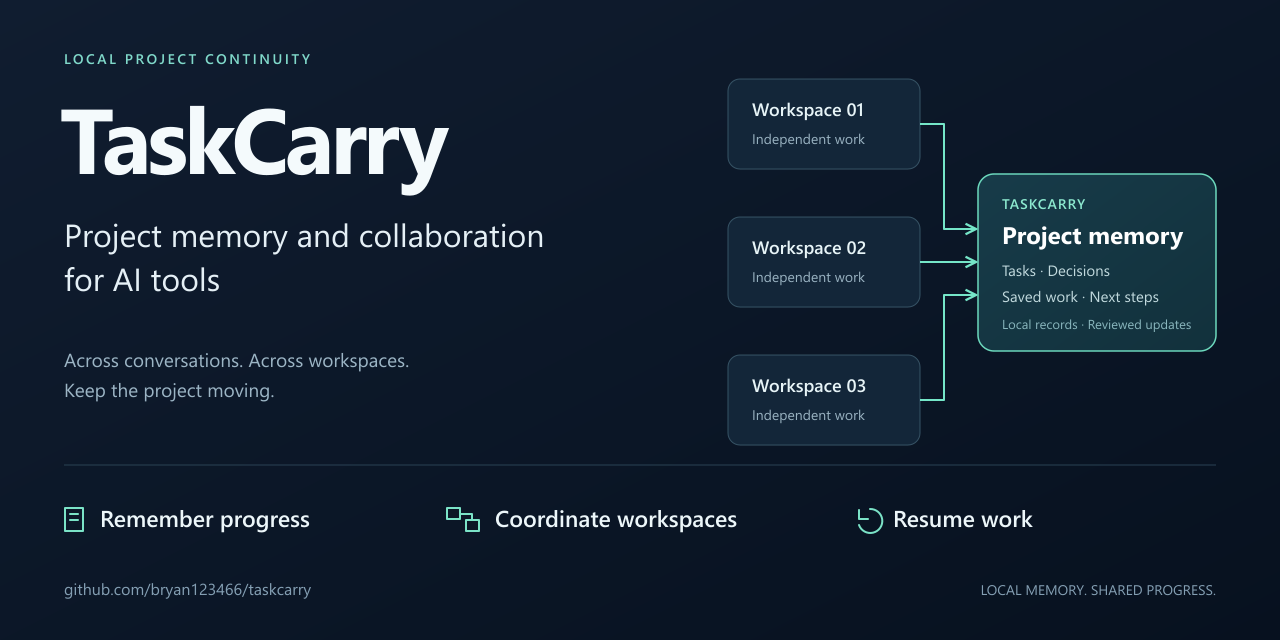
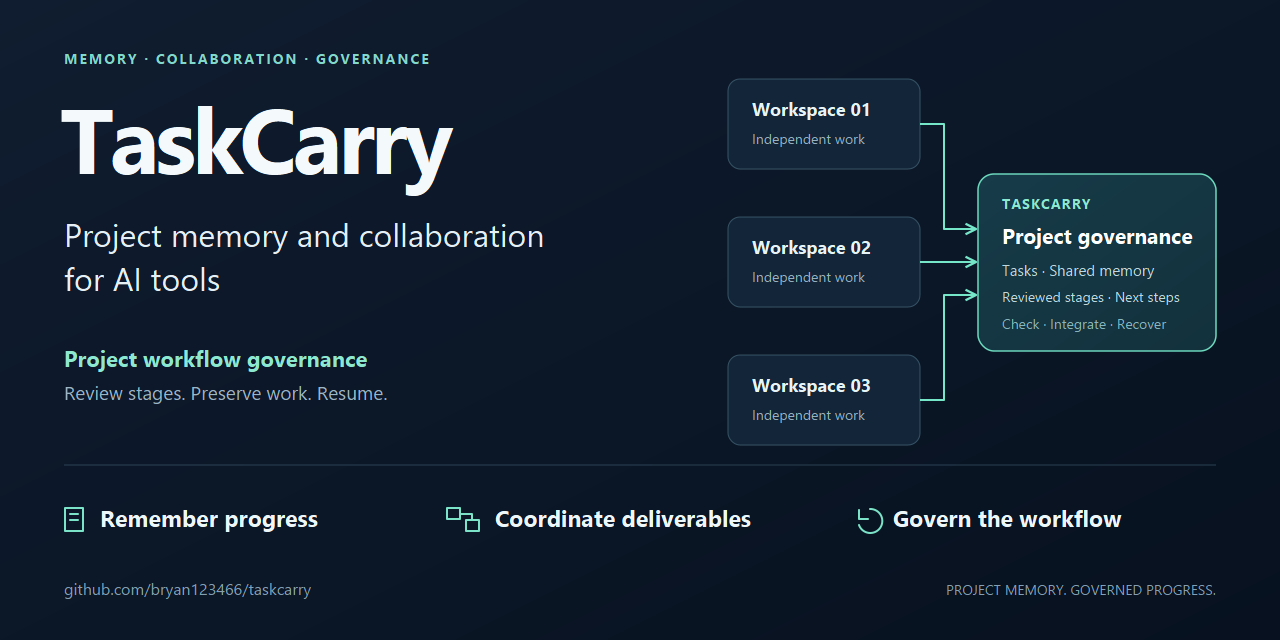
Clarify TaskCarry project workflow governance

diff --git a/docs/index.html b/docs/index.html
@@ -1,17 +1,17 @@
 <!doctype html><html lang="en"><head><meta charset="utf-8"><meta name="viewport" content="width=device-width,initial-scale=1"><title>TaskCarry — Project memory and collaboration for AI tools</title>
-<meta name="description" content="TaskCarry keeps local project memory, coordinates independent workspaces, and helps you resume work across AI conversations.">
+<meta name="description" content="TaskCarry provides local project memory, workspace collaboration, and project workflow governance for people working with AI tools.">
 <meta property="og:type" content="website"><meta property="og:title" content="TaskCarry — Project memory and collaboration for AI tools">
-<meta property="og:description" content="Remember progress. Coordinate workspaces. Resume work.">
-<meta property="og:image" content="https://raw.githubusercontent.com/bryan123466/taskcarry/v0.2.0rc4/docs/assets/social-preview.png">
+<meta property="og:description" content="Remember progress. Coordinate deliverables. Govern project workflows.">
+<meta property="og:image" content="https://raw.githubusercontent.com/bryan123466/taskcarry/main/docs/assets/social-preview.png">
 <meta property="og:image:width" content="1280"><meta property="og:image:height" content="640">
-<meta property="og:image:alt" content="TaskCarry: three independent workspaces connected to local project memory.">
+<meta property="og:image:alt" content="TaskCarry: project memory, workspace collaboration, and project workflow governance for AI tools.">
 <meta name="twitter:card" content="summary_large_image"><meta name="theme-color" content="#101d30"><style>
 :root{color-scheme:light;--ink:#183044;--muted:#536979;--paper:#f4f7f7;--line:#cad8de;--teal:#006f6b;--blue:#24578a;--pale:#e4f2ef;--amber:#77520e}*{box-sizing:border-box}body{margin:0;background:var(--paper);color:var(--ink);font:16px/1.65 system-ui,-apple-system,"Segoe UI","Microsoft YaHei",sans-serif}a{color:var(--blue);text-underline-offset:3px}button{font:inherit}header{background:#143546;color:white;padding:24px max(24px,calc((100vw - 1100px)/2)) 48px}nav{display:flex;justify-content:space-between;align-items:center;gap:18px;margin-bottom:48px}nav small{letter-spacing:.14em;text-transform:uppercase;font-weight:700}nav button{border:1px solid #a2bbc7;background:transparent;color:white;padding:7px 17px;border-radius:30px;cursor:pointer}nav button:focus-visible,a:focus-visible{outline:3px solid #d7a23e;outline-offset:4px}h1{font-size:clamp(2.1rem,5vw,3.8rem);line-height:1.1;letter-spacing:-.04em;max-width:900px;margin:16px 0 20px}header p{max-width:760px;font-size:1.15rem;color:#d7e6ed}h2{font-size:1.65rem;line-height:1.3;letter-spacing:-.02em;margin:0 0 18px}h3{font-size:1.1rem;margin:0 0 9px}p{margin:0 0 16px}.tag{display:inline-block;background:#d8ede6;color:#124d44;font-size:.85rem;font-weight:700;border-radius:4px;padding:4px 10px}.wrap{max-width:1148px;margin:auto;padding:32px 24px 60px}.notice{border-left:4px solid #af7b26;background:#fff7e6;color:#5f461c;padding:18px 22px;border-radius:0 8px 8px 0}.section{margin-top:44px}.grid{display:grid;grid-template-columns:repeat(3,1fr);gap:16px}.card{background:white;border:1px solid var(--line);border-radius:12px;padding:24px}.num{font-size:.8rem;letter-spacing:.12em;color:var(--teal);font-weight:800;margin-bottom:12px}.card p{color:var(--muted);font-size:.96rem;margin-bottom:0}.flow{background:white;border:1px solid var(--line);border-radius:12px;padding:24px;overflow-x:auto}.flow img{display:block;width:100%;min-width:720px;height:auto;margin-bottom:18px}.language-switch{display:flex;flex-wrap:wrap;gap:8px}nav button[aria-pressed="true"]{background:#d8ede6;border-color:#d8ede6;color:#124d44}.diagram-links{font-size:.9rem;display:flex;flex-wrap:wrap;gap:15px;margin:10px 0 0}table{border-collapse:collapse;width:100%;background:white;border:1px solid var(--line)}th,td{text-align:left;vertical-align:top;padding:16px;border-bottom:1px solid var(--line)}th{background:#e8f0f3;font-size:.94rem}code{font: .9em ui-monospace,"Cascadia Code",Consolas,monospace;background:#edf2f4;padding:2px 5px;border-radius:3px}.split{display:grid;grid-template-columns:1fr 1fr;gap:24px}.panel{border-top:3px solid var(--teal);padding:20px 0}ul,ol{padding-left:22px;margin:12px 0}li{margin:8px 0}.links{display:flex;flex-wrap:wrap;gap:14px}.links a{background:white;padding:10px 16px;border:1px solid var(--line);border-radius:6px;text-decoration:none}footer{border-top:1px solid var(--line);margin-top:40px;padding-top:22px;font-size:.9rem;color:var(--muted)}[hidden]{display:none!important}@media(max-width:720px){.grid,.split{grid-template-columns:1fr}nav{margin-bottom:30px;align-items:flex-start;flex-direction:column}th,td{padding:12px}.wrap{padding:25px 18px}.flow{padding:16px}}@media print{nav button{display:none}header{background:white;color:var(--ink);padding:20px 0}header p{color:var(--muted)}.wrap{padding:20px 0}.section{break-inside:avoid}body{background:white}}
 
 
 
 header{background:#101d30;padding-bottom:64px}nav{margin-bottom:60px}nav small{font-size:1.12rem;letter-spacing:-.02em;text-transform:none}nav button{border-color:#526c7b}nav button[aria-pressed="true"]{background:#79e3c7;border-color:#79e3c7;color:#10372d}h1{font-size:clamp(2.5rem,6vw,4.6rem);max-width:1000px;letter-spacing:-.045em}header p{max-width:730px;font-size:1.18rem;color:#c3d5e0}.hero-links{display:flex;flex-wrap:wrap;gap:12px;margin-top:30px}.hero-links a{background:#79e3c7;color:#10372d;padding:11px 18px;border-radius:7px;text-decoration:none;font-size:.95rem;font-weight:650}.hero-links a:nth-child(n+2){background:transparent;color:#e1eff5;border:1px solid #526c7b}.hero-links a:hover{filter:brightness(1.12)}.flow{padding:12px;background:#f2f7f7}.flow img{min-width:0;margin:0}.card{padding:26px}.section{margin-top:52px}.panel h2{font-size:1.55rem}footer{padding-bottom:12px}nav button:hover{border-color:#79e3c7}.skip{position:absolute;left:20px;top:-100px;background:white;padding:8px;z-index:2}.skip:focus{top:12px}@media(max-width:720px){header{padding:22px 20px 42px}nav{margin-bottom:38px}.section{margin-top:34px}.flow{padding:4px}.hero-links a{padding:10px 14px}}@media(prefers-reduced-motion:no-preference){a,button{transition:background-color .15s,color .15s,border-color .15s}}
-</style></head><body><a class="skip" href="#main">Skip to content / 跳转正文 / 跳至正文</a><header><nav><small>TaskCarry</small><div class="language-switch" role="group" aria-label="Language / 语言 / 語言"><button type="button" data-language="en" aria-pressed="true">English</button><button type="button" data-language="zh" aria-pressed="false">简体中文</button><button type="button" data-language="tw" aria-pressed="false">繁體中文</button></div></nav><div data-en><h1>Project memory.<br>Work that continues.</h1><p>Local project memory and collaboration for AI tools. Start with Codex and carry progress across conversations and workspaces.</p><div class="hero-links"><a href="https://github.com/bryan123466/taskcarry/releases/tag/v0.2.0rc4">Download v0.2.0rc4</a><a href="en/windows-example.md">Operating manual</a><a class="secondary" href="https://github.com/bryan123466/taskcarry">GitHub ↗</a></div></div><div data-zh hidden><h1>记住项目进度，<br>让工作持续向前。</h1><p>面向 AI 工具的本地项目记忆与协作。从 Codex 开始，让进度跨越对话与工作区，持续推进。</p><div class="hero-links"><a href="https://github.com/bryan123466/taskcarry/releases/tag/v0.2.0rc4">下载 v0.2.0rc4</a><a href="zh-CN/windows-example.md">操作手册</a><a class="secondary" href="https://github.com/bryan123466/taskcarry">GitHub ↗</a></div></div><div data-tw hidden><h1>記住專案進度，<br>讓工作持續向前。</h1><p>面向 AI 工具的本機專案記憶與協作。從 Codex 開始，讓進度跨越對話與工作區，持續推進。</p><div class="hero-links"><a href="https://github.com/bryan123466/taskcarry/releases/tag/v0.2.0rc4">下載 v0.2.0rc4</a><a href="zh-TW/windows-example.md">操作手冊</a><a class="secondary" href="https://github.com/bryan123466/taskcarry">GitHub ↗</a></div></div></header><main id="main" class="wrap"><article data-en><section class="section"><h2>Keep the project moving beyond a single chat.</h2><p>When work spans many conversations, files, and versions, it becomes harder to see what is current and where to resume. TaskCarry keeps the connected tasks, saved work, decisions, and deliverables in persistent local records.</p><div class="grid"><div class="card"><div class="num">01</div><h3>Project memory</h3><p>Keep task progress, important decisions, and next steps outside a temporary chat context.</p></div><div class="card"><div class="num">02</div><h3>Independent collaboration</h3><p>Let professional chats work in separate workspaces, then bring their completed stages together.</p></div><div class="card"><div class="num">03</div><h3>Work you can continue</h3><p>Save selected work, retain version history, and check what happened before resuming supported operations.</p></div></div></section><section class="section"><h2>TaskCarry connects people, AI, and local records</h2><div class="flow"><img src="assets/collaboration.en.svg" alt="TaskCarry connects people, AI, and local records" width="1200" height="710"><p class="diagram-links"><a href="assets/collaboration.en.svg">Open full-size diagram ↗</a></p></div></section><section class="section"><h2>From daily work to shared progress</h2><div class="flow"><img src="assets/governance-flow.en.svg" alt="From daily work to shared progress" width="1200" height="580"><p class="diagram-links"><a href="assets/governance-flow.en.svg">Open full-size diagram ↗</a></p></div></section><section class="section split"><div class="panel"><h2>Bring the work you already have.</h2><p>Connect an existing chat with a summary of its tasks, deliverables, and unfinished work. Keep a suitable original workspace, and add independent workspaces when parallel responsibilities need them.</p></div><div class="panel"><h2>Experience that helps the next action.</h2><p>For supported known problems, the toolkit checks applicable recovery rules and actual effects before completing missing steps. New problems still need diagnosis; saving a note alone does not add a new executable repair.</p></div></section><section class="section"><h2>Start with one project.</h2><ol><li>Install TaskCarry and connect one project using the operating manual.</li><li>Start your first governance chat with the project name and a one-sentence introduction. Review its initial feedback and next steps.</li><li>Add professional workspaces and optional scheduling in your AI host when needed.</li></ol><p class="links"><a href="en/windows-example.md">Operating manual</a><a href="../README.md">Product introduction</a></p><p>Codex provides the AI; TaskCarry provides local records and checked tools. Python 3.11+ is required; Git is needed for workspace collaboration. Optional scheduling is configured in the host. Multi-computer guidance is documented but has not completed a real two-computer end-to-end validation.</p></section><footer>TaskCarry · v0.2.0rc4 · A self-contained product overview. No remote fonts, tracking, or external scripts.</footer></article><article data-zh hidden><section class="section"><h2>工作继续，项目记忆也继续。</h2><p>当工作跨越许多对话、文件与版本，当前进展和接续位置会越来越难整理。TaskCarry 将已接入的任务、已保存的工作、重要决定与阶段成果，保存在持久的本地项目记录中。</p><div class="grid"><div class="card"><div class="num">01</div><h3>长期项目记忆</h3><p>让任务进度、重要决定与下一步保存在聊天临时上下文之外。</p></div><div class="card"><div class="num">02</div><h3>独立工作台协作</h3><p>专业聊天在各自工作区推进，再把完成的阶段成果汇入项目。</p></div><div class="card"><div class="num">03</div><h3>随时找到接续位置</h3><p>保留选定工作与版本历史，先核对已经发生的操作，再继续受支持的后续步骤。</p></div></div></section><section class="section"><h2>TaskCarry 连接人、AI 与本地项目记录</h2><div class="flow"><img src="assets/collaboration.zh-CN.svg" alt="TaskCarry 连接人、AI 与本地项目记录" width="1200" height="710"><p class="diagram-links"><a href="assets/collaboration.zh-CN.svg">打开完整尺寸图示 ↗</a></p></div></section><section class="section"><h2>从日常工作，到共同进度</h2><div class="flow"><img src="assets/governance-flow.zh-CN.svg" alt="从日常工作，到共同进度" width="1200" height="580"><p class="diagram-links"><a href="assets/governance-flow.zh-CN.svg">打开完整尺寸图示 ↗</a></p></div></section><section class="section split"><div class="panel"><h2>带着原来的工作接入。</h2><p>整理原聊天的任务、成果与未完成工作，即可按手册完成接入。合适的原工作区可以继续使用，需要并行的职责再安排独立工作区。</p></div><div class="panel"><h2>让经验帮助下一次行动。</h2><p>针对已支持的已知问题，工具先核对适用经验与实际效果，再补上缺失的步骤。新问题仍需诊断；写下一条经验本身，不会自动产生新的修复功能。</p></div></section><section class="section"><h2>从一个真实项目开始。</h2><ol><li>按操作手册安装 TaskCarry，接入一个项目。</li><li>开始首次治理聊天，提供项目名称与一句话介绍，查看首次反馈与下一步。</li><li>根据需要接入专业工作台，并在 AI 宿主中配置可选的定时任务。</li></ol><p class="links"><a href="zh-CN/windows-example.md">操作手册</a><a href="../README.zh-CN.md">产品介绍</a></p><p>Codex 提供 AI，TaskCarry 提供本地记录与受检查的工具。需要 Python 3.11+；工作区协作功能还需 Git。可选定时任务在宿主中配置。多电脑建议流程已写入手册，尚未完成真实双电脑端到端验证。</p></section><footer>TaskCarry · v0.2.0rc4 · 独立离线产品说明页。图示随包提供，不加载远程字体、追踪服务或外部脚本。</footer></article><article data-tw hidden><section class="section"><h2>工作繼續，專案記憶也繼續。</h2><p>當工作跨越許多對話、檔案與版本，目前進展和接續位置會越來越難整理。TaskCarry 將已接入的任務、已保存的工作、重要決定與階段成果，保存在持久的本機專案記錄中。</p><div class="grid"><div class="card"><div class="num">01</div><h3>長期專案記憶</h3><p>讓任務進度、重要決定與下一步保存在對話暫時的上下文之外。</p></div><div class="card"><div class="num">02</div><h3>獨立工作台協作</h3><p>專業對話在各自工作區推進，再把完成的階段成果匯入專案。</p></div><div class="card"><div class="num">03</div><h3>隨時找到接續位置</h3><p>保留選定工作與版本歷史，先核對已經發生的操作，再繼續支援的後續步驟。</p></div></div></section><section class="section"><h2>TaskCarry 連結人、AI 與本機專案記錄</h2><div class="flow"><img src="assets/collaboration.zh-TW.svg" alt="TaskCarry 連結人、AI 與本機專案記錄" width="1200" height="710"><p class="diagram-links"><a href="assets/collaboration.zh-TW.svg">開啟完整尺寸圖示 ↗</a></p></div></section><section class="section"><h2>從日常工作，到共同進度</h2><div class="flow"><img src="assets/governance-flow.zh-TW.svg" alt="從日常工作，到共同進度" width="1200" height="580"><p class="diagram-links"><a href="assets/governance-flow.zh-TW.svg">開啟完整尺寸圖示 ↗</a></p></div></section><section class="section split"><div class="panel"><h2>帶著原來的工作接入。</h2><p>整理原對話的任務、成果與未完成工作，即可依手冊完成接入。合適的原工作區可以繼續使用，需要並行的職責再安排獨立工作區。</p></div><div class="panel"><h2>讓經驗幫助下一次行動。</h2><p>針對已支援的已知問題，工具先核對適用經驗與實際效果，再補上缺失的步驟。新問題仍須診斷；寫下一條經驗本身，不會自動產生新的修復功能。</p></div></section><section class="section"><h2>從一個真實專案開始。</h2><ol><li>依操作手冊安裝 TaskCarry，接入一個專案。</li><li>開始首次治理對話，提供專案名稱與一句話介紹，查看首次回饋與下一步。</li><li>依需要接入專業工作台，並在 AI 宿主中設定可選的定時任務。</li></ol><p class="links"><a href="zh-TW/windows-example.md">操作手冊</a><a href="../README.zh-TW.md">產品介紹</a></p><p>Codex 提供 AI，TaskCarry 提供本機記錄與受檢查的工具。需要 Python 3.11+；工作區協作功能還需 Git。可選定時任務在宿主中設定。多電腦建議流程已寫入手冊，尚未完成真實雙電腦端到端驗證。</p></section><footer>TaskCarry · v0.2.0rc4 · 獨立離線產品說明頁。圖示隨套件提供，不載入遠端字型、追蹤服務或外部指令碼。</footer></article><span id="states"></span><span id="workflow"></span></main><script>
+</style></head><body><a class="skip" href="#main">Skip to content / 跳转正文 / 跳至正文</a><header><nav><small>TaskCarry</small><div class="language-switch" role="group" aria-label="Language / 语言 / 語言"><button type="button" data-language="en" aria-pressed="true">English</button><button type="button" data-language="zh" aria-pressed="false">简体中文</button><button type="button" data-language="tw" aria-pressed="false">繁體中文</button></div></nav><div data-en><h1>Project memory.<br>Work that continues.</h1><p>Project memory and collaboration for AI tools, with built-in project workflow governance. Keep parallel work connected, bring ready results together, and carry progress across conversations.</p><div class="hero-links"><a href="https://github.com/bryan123466/taskcarry/releases/tag/v0.2.0rc4">Download v0.2.0rc4</a><a href="en/windows-example.md">Operating manual</a><a class="secondary" href="https://github.com/bryan123466/taskcarry">GitHub ↗</a></div></div><div data-zh hidden><h1>记住项目进度，<br>让工作持续向前。</h1><p>为 AI 工具提供项目记忆与协作能力，并将项目工作流治理融入日常工作。连接并行任务，汇合准备好的成果，让进度跨越对话与工作区，持续推进。</p><div class="hero-links"><a href="https://github.com/bryan123466/taskcarry/releases/tag/v0.2.0rc4">下载 v0.2.0rc4</a><a href="zh-CN/windows-example.md">操作手册</a><a class="secondary" href="https://github.com/bryan123466/taskcarry">GitHub ↗</a></div></div><div data-tw hidden><h1>記住專案進度，<br>讓工作持續向前。</h1><p>為 AI 工具提供專案記憶與協作能力，並將專案工作流程治理融入日常工作。連結並行任務，匯合準備好的成果，讓進度跨越對話與工作區，持續推進。</p><div class="hero-links"><a href="https://github.com/bryan123466/taskcarry/releases/tag/v0.2.0rc4">下載 v0.2.0rc4</a><a href="zh-TW/windows-example.md">操作手冊</a><a class="secondary" href="https://github.com/bryan123466/taskcarry">GitHub ↗</a></div></div></header><main id="main" class="wrap"><article data-en><section class="section"><h2>Keep the project moving beyond a single chat.</h2><p>When work spans many conversations, files, and versions, it becomes harder to see what is current and where to resume. TaskCarry keeps the connected tasks, saved work, decisions, and deliverables in persistent local records.</p><div class="grid"><div class="card"><div class="num">01</div><h3>Remember the project</h3><p>Keep task progress, important decisions, saved checkpoints, and next steps beyond a single chat.</p></div><div class="card"><div class="num">02</div><h3>Coordinate deliverables</h3><p>Work in independent workspaces, connect stages to their tasks, and bring ready results into a shared project with clear version relationships.</p></div><div class="card"><div class="num">03</div><h3>Govern project workflows</h3><p>Review stage plans, check workspace state, preserve supported unfinished work, and resume interrupted operations from verified effects.</p></div></div></section><section class="section"><h2>TaskCarry connects people, AI, and local records</h2><p>You decide project direction and final acceptance. The governance AI in your host interprets the connected work and reviews the next action; TaskCarry retains project state and performs checked operations. This governs how project work is received and continued. Your AI host provides its own identity, permissions, and security controls.</p><div class="flow"><img src="assets/collaboration.en.svg" alt="TaskCarry connects people, AI, and local records" width="1200" height="710"><p class="diagram-links"><a href="assets/collaboration.en.svg">Open full-size diagram ↗</a></p></div></section><section class="section"><h2>From daily work to shared progress</h2><div class="flow"><img src="assets/governance-flow.en.svg" alt="From daily work to shared progress" width="1200" height="580"><p class="diagram-links"><a href="assets/governance-flow.en.svg">Open full-size diagram ↗</a></p></div></section><section class="section split"><div class="panel"><h2>Bring the work you already have.</h2><p>Connect an existing chat with a summary of its tasks, deliverables, and unfinished work. Keep a suitable original workspace, and add independent workspaces when parallel responsibilities need them.</p></div><div class="panel"><h2>Experience that helps the next action.</h2><p>For supported known problems, the toolkit checks applicable recovery rules and actual effects before completing missing steps. New problems still need diagnosis; saving a note alone does not add a new executable repair.</p></div></section><section class="section"><h2>Start with one project.</h2><ol><li>Install TaskCarry and connect one project using the operating manual.</li><li>Start your first governance chat with the project name and a one-sentence introduction. Review its initial feedback and next steps.</li><li>Add professional workspaces and optional scheduling in your AI host when needed.</li></ol><p class="links"><a href="en/windows-example.md">Operating manual</a><a href="../README.md">Product introduction</a></p><p>Your chosen host provides the AI; TaskCarry provides local records and checked tools. The current step-by-step guide uses Codex; other hosts need their own connection and workflow verification. Python 3.11+ is required; Git is needed for workspace collaboration. Optional scheduling is configured in the host. Multi-computer guidance is documented but has not completed a real two-computer end-to-end validation.</p></section><footer>TaskCarry · v0.2.0rc4 · A self-contained product overview. No remote fonts, tracking, or external scripts.</footer></article><article data-zh hidden><section class="section"><h2>工作继续，项目记忆也继续。</h2><p>当工作跨越许多对话、文件与版本，当前进展和接续位置会越来越难整理。TaskCarry 将已接入的任务、已保存的工作、重要决定与阶段成果，保存在持久的本地项目记录中。</p><div class="grid"><div class="card"><div class="num">01</div><h3>记住项目</h3><p>在单个聊天之外，保留任务进度、重要决定、已保存的检查点与下一步。</p></div><div class="card"><div class="num">02</div><h3>协调成果</h3><p>各自在独立工作区推进，将阶段成果关联到任务，核对版本关系，再把准备好的成果汇入共同项目。</p></div><div class="card"><div class="num">03</div><h3>治理推进过程</h3><p>审阅阶段接收计划，核对工作区状态，保全支持范围内的未完成工作，并依据实际效果接续中断的操作。</p></div></div></section><section class="section"><h2>TaskCarry 连接人、AI 与本地项目记录</h2><p>你决定项目方向与最终验收。宿主中的治理 AI 理解已接入的工作并复核下一步；TaskCarry 保存项目状态，执行经过校验的操作。这套治理围绕项目成果如何接收与继续推进展开；身份、权限与安全控制由 AI 宿主自身提供。</p><div class="flow"><img src="assets/collaboration.zh-CN.svg" alt="TaskCarry 连接人、AI 与本地项目记录" width="1200" height="710"><p class="diagram-links"><a href="assets/collaboration.zh-CN.svg">打开完整尺寸图示 ↗</a></p></div></section><section class="section"><h2>从日常工作，到共同进度</h2><div class="flow"><img src="assets/governance-flow.zh-CN.svg" alt="从日常工作，到共同进度" width="1200" height="580"><p class="diagram-links"><a href="assets/governance-flow.zh-CN.svg">打开完整尺寸图示 ↗</a></p></div></section><section class="section split"><div class="panel"><h2>带着原来的工作接入。</h2><p>整理原聊天的任务、成果与未完成工作，即可按手册完成接入。合适的原工作区可以继续使用，需要并行的职责再安排独立工作区。</p></div><div class="panel"><h2>让经验帮助下一次行动。</h2><p>针对已支持的已知问题，工具先核对适用经验与实际效果，再补上缺失的步骤。新问题仍需诊断；写下一条经验本身，不会自动产生新的修复功能。</p></div></section><section class="section"><h2>从一个真实项目开始。</h2><ol><li>按操作手册安装 TaskCarry，接入一个项目。</li><li>开始首次治理聊天，提供项目名称与一句话介绍，查看首次反馈与下一步。</li><li>根据需要接入专业工作台，并在 AI 宿主中配置可选的定时任务。</li></ol><p class="links"><a href="zh-CN/windows-example.md">操作手册</a><a href="../README.zh-CN.md">产品介绍</a></p><p>你选择的宿主提供 AI，TaskCarry 提供本地记录与经过校验的工具。当前手把手说明使用 Codex；其他宿主需分别核验连接与工作流程。需要 Python 3.11+；工作区协作功能还需 Git。可选定时任务在宿主中配置。多电脑建议流程已写入手册，尚未完成真实双电脑端到端验证。</p></section><footer>TaskCarry · v0.2.0rc4 · 独立离线产品说明页。图示随包提供，不加载远程字体、追踪服务或外部脚本。</footer></article><article data-tw hidden><section class="section"><h2>工作繼續，專案記憶也繼續。</h2><p>當工作跨越許多對話、檔案與版本，目前進展和接續位置會越來越難整理。TaskCarry 將已接入的任務、已保存的工作、重要決定與階段成果，保存在持久的本機專案記錄中。</p><div class="grid"><div class="card"><div class="num">01</div><h3>記住專案</h3><p>在單一對話之外，保留任務進度、重要決定、已儲存的檢查點與下一步。</p></div><div class="card"><div class="num">02</div><h3>協調成果</h3><p>各自在獨立工作區推進，將階段成果關聯至任務，核對版本關係，再把準備好的成果匯入共同專案。</p></div><div class="card"><div class="num">03</div><h3>治理推進過程</h3><p>審閱階段接收計畫，核對工作區狀態，保全支援範圍內的未完成工作，並依據實際效果接續中斷的操作。</p></div></div></section><section class="section"><h2>TaskCarry 連結人、AI 與本機專案記錄</h2><p>你決定專案方向與最終驗收。宿主中的治理 AI 理解已接入的工作並複核下一步；TaskCarry 保存專案狀態，執行經過校驗的操作。這套治理圍繞專案成果如何接收與繼續推進展開；身分、權限與安全控制由 AI 宿主自身提供。</p><div class="flow"><img src="assets/collaboration.zh-TW.svg" alt="TaskCarry 連結人、AI 與本機專案記錄" width="1200" height="710"><p class="diagram-links"><a href="assets/collaboration.zh-TW.svg">開啟完整尺寸圖示 ↗</a></p></div></section><section class="section"><h2>從日常工作，到共同進度</h2><div class="flow"><img src="assets/governance-flow.zh-TW.svg" alt="從日常工作，到共同進度" width="1200" height="580"><p class="diagram-links"><a href="assets/governance-flow.zh-TW.svg">開啟完整尺寸圖示 ↗</a></p></div></section><section class="section split"><div class="panel"><h2>帶著原來的工作接入。</h2><p>整理原對話的任務、成果與未完成工作，即可依手冊完成接入。合適的原工作區可以繼續使用，需要並行的職責再安排獨立工作區。</p></div><div class="panel"><h2>讓經驗幫助下一次行動。</h2><p>針對已支援的已知問題，工具先核對適用經驗與實際效果，再補上缺失的步驟。新問題仍須診斷；寫下一條經驗本身，不會自動產生新的修復功能。</p></div></section><section class="section"><h2>從一個真實專案開始。</h2><ol><li>依操作手冊安裝 TaskCarry，接入一個專案。</li><li>開始首次治理對話，提供專案名稱與一句話介紹，查看首次回饋與下一步。</li><li>依需要接入專業工作台，並在 AI 宿主中設定可選的定時任務。</li></ol><p class="links"><a href="zh-TW/windows-example.md">操作手冊</a><a href="../README.zh-TW.md">產品介紹</a></p><p>你選擇的宿主提供 AI，TaskCarry 提供本機記錄與經過校驗的工具。目前逐步說明使用 Codex；其他宿主須分別核驗連線與工作流程。需要 Python 3.11+；工作區協作功能還需 Git。可選定時任務在宿主中設定。多電腦建議流程已寫入手冊，尚未完成真實雙電腦端到端驗證。</p></section><footer>TaskCarry · v0.2.0rc4 · 獨立離線產品說明頁。圖示隨套件提供，不載入遠端字型、追蹤服務或外部指令碼。</footer></article><span id="states"></span><span id="workflow"></span></main><script>
 (()=>{
   const languages={en:{tag:'en',hash:'en'},zh:{tag:'zh-CN',hash:'zh'},tw:{tag:'zh-TW',hash:'zh-TW'}};
   const aliases={en:'en',zh:'zh','zh-CN':'zh',tw:'tw','zh-TW':'tw'};

diff --git a/scripts/build_trial.py b/scripts/build_trial.py
@@ -24,7 +24,7 @@ EXTENSIONS = {".py", ".md", ".json", ".toml", ".html", ".css", ".js", ".yaml", "
 # are not allowed. A changed or additional binary must be reviewed explicitly.
 REVIEWED_BINARY_ASSETS = {
[3 lines of base64/hex data omitted]
 }
 EXCLUDED = {"__pycache__", ".taskcarry", ".venv", ".git", "node_modules", "dist", "build", "local"}
 SKILLS = {"taskcarry-project-setup", "taskcarry-task-delivery", "taskcarry-governance-reconcile", "taskcarry-experience-recovery"}

diff --git a/README.md b/README.md
@@ -6,7 +6,7 @@
 
 [Download TaskCarry](https://github.com/bryan123466/taskcarry/releases/tag/v0.2.0rc4) · [Start with the user manual](docs/en/windows-example.md) · [See the architecture](docs/en/architecture.md)
 
-Keep a long-running project moving across AI conversations, workspaces, and pauses. TaskCarry saves the task context, selected work, deliverable history, and next steps that help you pick up where you left off.
+TaskCarry provides **project memory, workspace collaboration, and project workflow governance** for people working with AI tools. Bring ready stages into a shared project, preserve unfinished work, and resume supported interrupted operations from recorded and verified results. Task context, selected files, deliverable history, and next steps stay with the project across conversations and pauses.
 
 Use it when one project has outgrown a single conversation: software and documentation advancing together, a research project with several workstreams, or a product with development, operations, and writing happening in parallel. Your AI tool helps do the work; TaskCarry gives that work a durable local record and a way to bring results together.
 
@@ -25,17 +25,28 @@ Git already keeps file history. Project instructions such as AGENTS.md already e
 
 For a short task in one chat, your existing tools may be enough. TaskCarry becomes useful when you repeatedly need to answer: **Where did we stop? Which result is current? What has already joined the project?**
 
-## What stays with your project?
+## Remember the project. Coordinate results. Govern progress.
 
-| Capability | What you can do |
+### Remember the project
+
+Keep task goals, recorded decisions, current position, and next steps outside chat context. Save selected files and continuation notes when a task pauses, and read a focused agenda without losing paused work or completed history. Material references record where larger files live and whether a specified backup matches, so every file need not go into Git.
+
+### Coordinate results
+
+Give parallel tasks independent workspaces, then bring ready results into a shared project version. A useful stage can be delivered while its task continues. Explicit version relationships and matching change history show when a later stage replaces an earlier one, while keeping independent results available.
+
+### Govern how the project moves forward
+
+Project workflow governance connects the work people and AI produce with clear plans, checked updates, and recorded outcomes.
+
+| Capability | What it helps you do |
 |---|---|
-| **Project memory** | Retain task goals, recorded decisions, current position, and next steps outside chat context. |
-| **Saved pause points** | Keep selected saved files and continuation notes without pretending the task is finished. |
-| **Multiple workspaces** | Let parallel tasks use separate working directories, then collect their ready results into a shared project version. |
-| **Stage-by-stage delivery** | Contribute a useful stage while the rest of a task continues. Track explicit relationships between later and earlier stages. |
-| **Clear current work** | Read a focused, paginated agenda while keeping paused work and completed history available. |
-| **Interrupted-work recovery** | Check recorded and actual effects, reuse supported recovery methods, and continue missing steps without blindly repeating completed work. |
-| **Material references** | Record where larger files live and whether a specified backup matches, without putting every file into Git. |
+| **Reviewable integration plans** | See which stages and files will join the project before carrying out the update. |
+| **Workspace binding and conflict checks** | Check the registered workspace and expected state, coordinate the toolkit's own writes, and identify concrete conflicts. |
+| **Work-in-progress preservation** | Retain supported local commits, staged changes, working files, and new files when adopting shared results. |
+| **Interrupted-operation recovery** | Check what actually happened, reuse a recovery method when its conditions match, and complete supported missing steps without blindly repeating finished work. |
+
+This governance focuses on project deliverables and their workflow. Host permissions and Agent authentication remain with your AI platform and operating environment; [the architecture](docs/en/architecture.md) explains how these responsibilities fit together.
 
 Memory comes from the tasks, notes, files, and deliveries you or your AI assistant explicitly connect. TaskCarry does not automatically collect all private conversations or capture unsaved editor content.
 

diff --git a/docs/en/architecture.md b/docs/en/architecture.md
@@ -4,6 +4,14 @@
 
 When several local AI workspaces advance a project, each needs to know what to do next without losing its earlier work. TaskCarry gives them shared task records and a governance chat that brings ready results together. Files and progress remain on your computer; the project does not depend on one chat remembering everything. Codex is the first documented host setup; other local AI tools can use the same CLI/MCP interfaces after their connection and capabilities are verified.
 
+## Project workflow governance
+
+TaskCarry combines project memory, workspace collaboration, and governance of the work people and AI produce together. Its focus is how a task keeps its current position, how a stage joins the shared project, and how an interrupted operation continues. This provides a practical workflow for a long-running project across multiple chats or Agents.
+
+The governance chat interprets supplied task information and reviews the proposed integration plan. The tools bind that plan to registered workspaces, specific versions, changed paths, and expected state. They record actual results, preserve supported unfinished work, and check applicable recovery methods before continuing missing steps. People retain project direction, priorities, business acceptance, and external-delivery decisions.
+
+Workspace identity here means the registered directory and repository, not authentication of an Agent or a person. Toolkit locks coordinate its own writes; other editors and Git commands still need to respect the workspace's writing responsibility. AI-platform permissions, identity security, and operating-system isolation remain with the host environment. See [security and project data](../../SECURITY.md) for that scope.
+
 ## Who does what
 
 You set the direction, divide responsibilities, and decide whether a result meets your needs. Professional chats work in their own registered directories. The governance chat uses AI to interpret their task records and deliverables, then calls the tools to save state, collect stages, and update workspaces.

diff --git a/docs/zh-TW/architecture.md b/docs/zh-TW/architecture.md
@@ -4,6 +4,14 @@
 
 多個本機 AI 工作區一起推進專案時，各自需要知道下一步做什麼，也需要保留先前的成果。TaskCarry 為它們提供共同的任務記錄，由治理視窗把準備好的成果彙整起來。檔案與進度儲存在你的電腦上，專案不依賴某一個對話記住全部歷史。Codex 是首個提供具體接入說明的宿主；其他本機 AI 工具可透過同一 CLI/MCP 接入，並分別核驗連線與實際能力。
 
+## 專案工作流程治理
+
+TaskCarry 將專案記憶、工作區協作，以及人和 AI 共同產出工作的治理聯繫起來。它關注任務如何保留目前位置、階段成果如何彙入共用專案，以及中斷操作如何繼續，為跨多個對話或 Agent 的長期專案提供可執行的工作流程。
+
+治理對話理解已提供的任務資訊，並複核擬執行的成果接收計畫。工具將計畫綁定到登記工作區、具體版本、修改路徑與預期狀態，記錄實際結果，保全支援範圍內的未完成工作，並檢查適用的恢復方法後接續缺失步驟。專案方向、優先順序、業務驗收與對外交付仍由人決定。
+
+這裡的工作區身分指登記的目錄與儲存庫，不是對 Agent 或個人的身分驗證。工具鎖協調自身的寫入；其他編輯器與 Git 命令仍需要遵守工作區的寫入分工。AI 平台權限、身分安全與作業系統隔離由宿主環境負責。具體範圍見[安全與專案資料](../../SECURITY.md)。
+
 ## 誰來做什麼
 
 你決定方向、分配職責，並判斷成果是否符合需要。專業視窗在各自登記的目錄中推進任務；治理視窗利用 AI 理解任務記錄與成果之間的關係，再呼叫工具儲存狀態、彙整階段與更新工作區。

diff --git a/docs/zh-CN/architecture.md b/docs/zh-CN/architecture.md
@@ -4,6 +4,14 @@
 
 多个本地 AI 工作区一起推进项目时，各自需要知道下一步做什么，也需要保留之前的成果。TaskCarry 为它们提供共同的任务记录，由治理窗口把准备好的成果汇总起来。文件和进度保存在你的电脑上，项目不依赖某一个聊天记住全部历史。Codex 是首个提供具体接入说明的宿主；其他本地 AI 工具可通过同一 CLI/MCP 接入，并分别核验连接与实际能力。
 
+## 项目工作流治理
+
+TaskCarry 将项目记忆、工作区协作，以及人和 AI 共同产出工作的治理联系起来。它关注任务怎样保留当前位置、阶段成果怎样汇入共同项目，以及中断操作怎样继续，为跨多个聊天或 Agent 的长期项目提供可执行的工作流程。
+
+治理聊天理解已提供的任务信息，并复核拟执行的成果接收计划。工具将计划绑定到登记工作区、具体版本、修改路径和预期状态，记录实际结果，保全支持范围内的未完成工作，并检查适用的恢复方法后接续缺失步骤。项目方向、优先级、业务验收和对外交付仍由人决定。
+
+这里的工作区身份指登记的目录与仓库，不是对 Agent 或个人的身份认证。工具锁协调自身的写入；其他编辑器和 Git 命令仍需要遵守工作区的写入分工。AI 平台权限、身份安全和操作系统隔离由宿主环境负责。具体范围见[安全与项目资料](../../SECURITY.md)。
+
 ## 谁来做什么
 
 你决定方向、分配职责，并判断成果是否符合需要。专业窗口在各自登记的目录中推进任务；治理窗口利用 AI 理解任务记录与成果之间的关系，再调用工具保存状态、汇总阶段和更新工作区。
